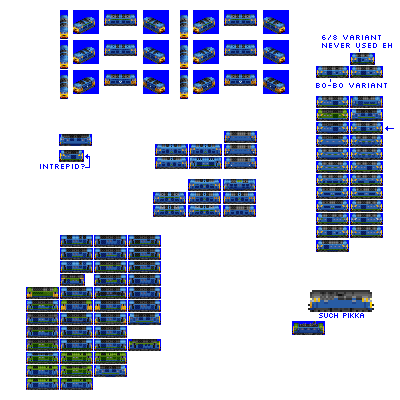
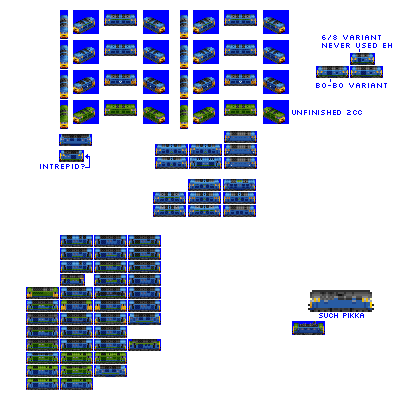
Change: WIP on Smizzle, Westrail, Grillage etc

Changed region(s): [[0.45, 0.24, 0.99, 0.63], [0.15, 0.24, 0.42, 0.33]]

diff --git a/src/vehicles/pony/grillage.py b/src/vehicles/pony/grillage.py
@@ -6,19 +6,20 @@ def main(**kwargs):
 
     model_def = ModelDef(
         class_name="SimpleEngine",
-        model_id="haullage",
+        model_id="grillage",
         base_numeric_id=39930,
-        name="HAULLAGE",
+        name="Grillage",
         subrole="super_heavy_freight",
         subrole_child_branch_num=-3,
         power_by_power_source={
             "DIESEL": 3650,
         },
+        speed=87, # these don't *have* to be replaced at game end
         random_reverse=True,
         gen=4,
-        intro_year_offset=10,  # let's be later for this one
+        intro_year_offset=12,  # let's be later for this one
         # note that livery names are metadata only and can repeat for different spriterows
-        liveries=["VANILLA", "BANGER_BLUE", "SWOOSH"],
+        liveries=["VANILLA", "BANGER_BLUE", "RAILFREIGHT_RED_STRIPE"],
         sprites_complete=False,
     )
 
@@ -31,7 +32,7 @@ def main(**kwargs):
 
     model_def.define_description("""""")
     model_def.define_foamer_facts(
-        """"""
+        """Proposed BR high-horsepower freight locomotives of the 1960s and 1970s"""
     )
 
     result.append(model_def)

diff --git a/src/vehicles/pony/lion.py b/src/vehicles/pony/lion.py
@@ -14,11 +14,13 @@ def main(**kwargs):
         power_by_power_source={
             "DIESEL": 3650,  # first high HP diesel in this roster??
         },
+        speed=87, # these don't *have* to be replaced at game end
         random_reverse=True,
         gen=4,
-        intro_year_offset=10,  # let's be later for this one
+        intro_year_offset=11,  # let's be later for this one
         # note that livery names are metadata only and can repeat for different spriterows
         liveries=["VANILLA", "BANGER_BLUE", "SWOOSH"],
+        docs_image_spriterow=3,
         sprites_complete=True,
     )
 

diff --git a/src/vehicles/pony/smizzle.py b/src/vehicles/pony/smizzle.py
@@ -18,7 +18,7 @@ def main(**kwargs):
         gen=4,
         intro_year_offset=-1,  # introduce earlier by design
         # note that livery names are metadata only and can repeat for different spriterows
-        liveries=["VANILLA", "BANGER_BLUE", "INDUSTRIAL_YELLOW"],
+        liveries=["VANILLA", "RAILFREIGHT_RED_STRIPE", "INDUSTRIAL_YELLOW", "INDUSTRIAL_YELLOW"],
         sprites_complete=False,
     )
 

diff --git a/src/vehicles/pony/duallage.py b/src/vehicles/pony/duallage.py
@@ -33,7 +33,7 @@ def main(**kwargs):
     )
 
     model_def.define_description("""""")
-    model_def.define_foamer_facts("""""")
+    model_def.define_foamer_facts("""CIÉ (Irish Transport System) 141 Class and 181 Class""")
 
     result.append(model_def)
 

diff --git a/src/rosters/pony.py b/src/rosters/pony.py
@@ -103,7 +103,7 @@ engine_module_names = [
     "duallage",
     "withershins",
     "lion",
-    "haullage",
+    "grillage",
     "grid",
     "bone",
     "toaster",
